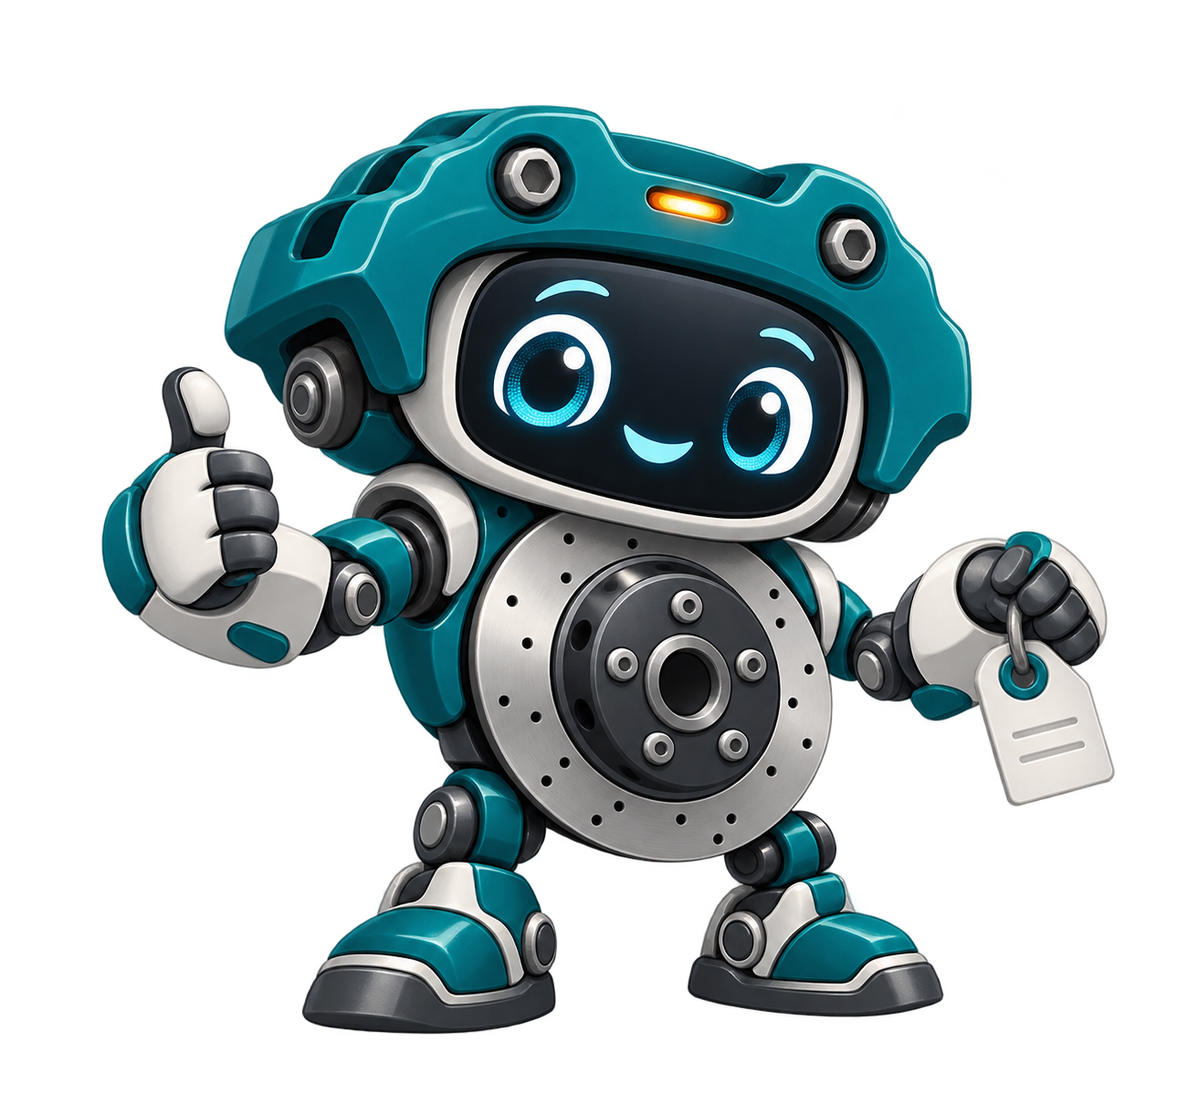
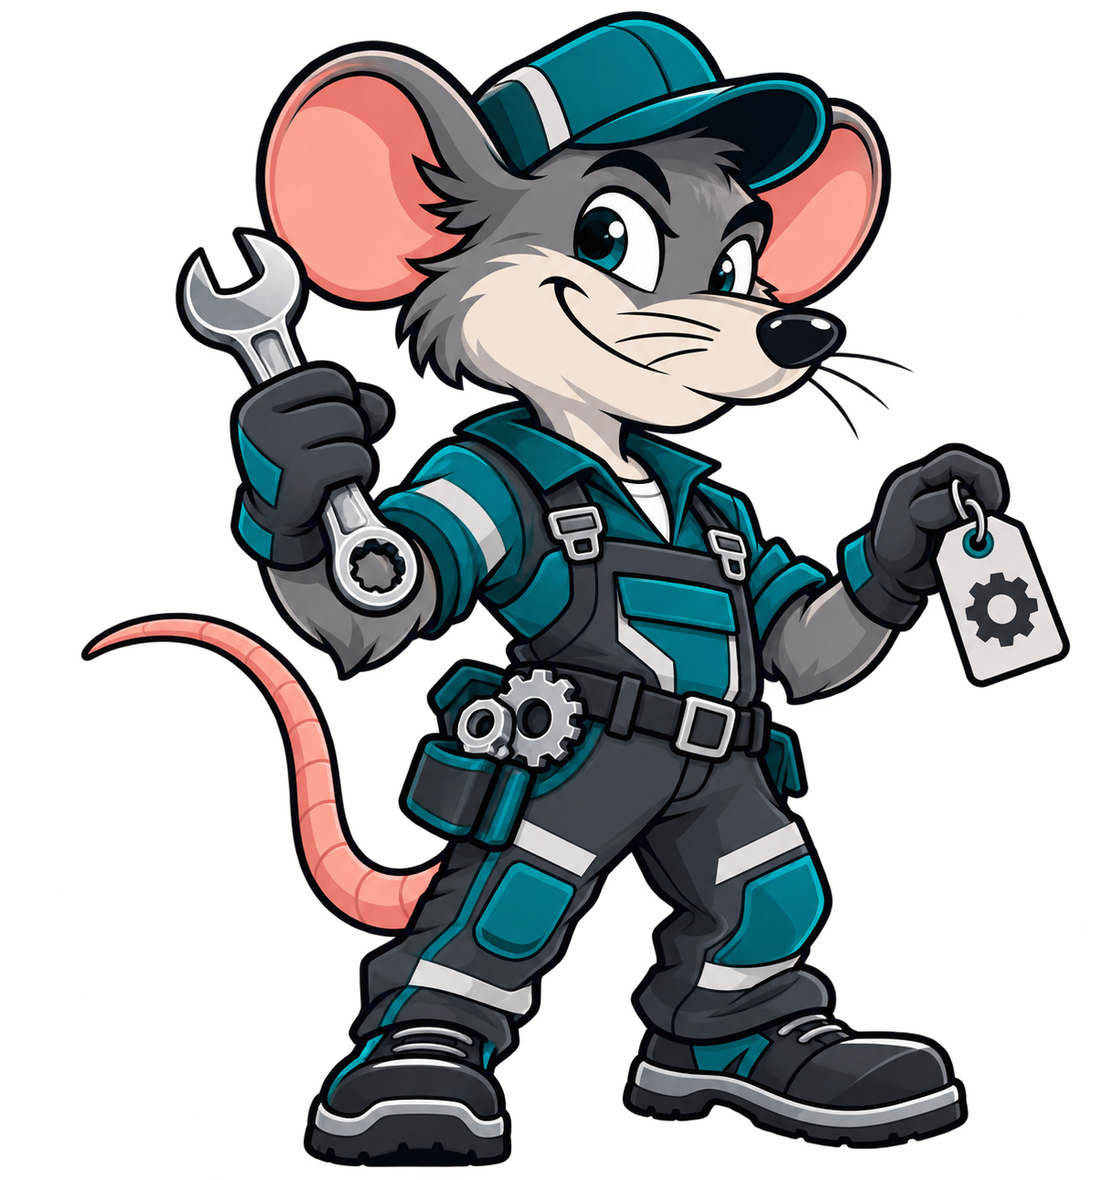
feat: replace Partiva visual identity

diff --git a/styles.css b/styles.css
@@ -5,4 +5,22 @@
 :root{--bg:#f3f6f6;--surface:#fff;--surface-alt:#eaf0f0;--ink:#172b32;--muted:#64777c;--muted-2:#8da0a4;--line:#dce7e7;--purple:#0f7079;--purple-dark:#0a5961;--purple-soft:#e5f2f2;--orange:#d89a4b;--green:#3b9a78;--yellow:#d8aa4d;--blue:#438f9b;--graphite:#172b32;--teal:#0f7079;--teal-dark:#0a5961;--teal-soft:#e5f2f2;--shadow:0 18px 45px rgba(24,57,63,.11);--radius:16px;--font:'DM Sans',sans-serif;--display:'Manrope',sans-serif}html{scroll-behavior:smooth}body{background:var(--bg);color:var(--ink);-webkit-font-smoothing:antialiased}button,a{cursor:pointer}button:focus-visible,a:focus-visible,input:focus-visible,select:focus-visible,textarea:focus-visible,summary:focus-visible{outline:3px solid rgba(15,112,121,.28);outline-offset:3px}.app-shell{display:none}.app-shell.is-visible{display:flex}.wordmark{font-family:'Caveat',cursive;font-size:31px;font-weight:700;line-height:.9;letter-spacing:.2px;color:var(--graphite);text-decoration:none}.landing-screen{display:none;min-height:100vh;background:#f4f7f7;color:var(--ink)}.landing-screen.active{display:block}.landing-nav{height:78px;max-width:1200px;margin:0 auto;padding:0 30px;display:flex;align-items:center;justify-content:space-between;gap:24px}.landing-nav .wordmark{color:var(--teal-dark);font-size:36px}.landing-links{display:flex;align-items:center;gap:28px;margin-left:auto}.landing-links a,.landing-login{color:#5a7175;font-size:12px;font-weight:700;text-decoration:none;transition:color .18s ease}.landing-links a:hover,.landing-login:hover{color:var(--teal)}.landing-login{min-height:42px;padding:0 18px;border:1px solid #cbdcdd;border-radius:10px;background:#fff}.landing-hero{max-width:1200px;margin:0 auto;padding:74px 30px 76px;display:grid;grid-template-columns:minmax(0,1fr) minmax(420px,.92fr);align-items:center;gap:68px}.landing-eyebrow{color:var(--teal);display:flex;align-items:center;gap:8px}.eyebrow-dot{width:7px;height:7px;border-radius:50%;background:var(--orange);box-shadow:0 0 0 5px rgba(216,154,75,.13)}.landing-hero h1{max-width:650px;font:800 clamp(44px,6vw,76px)/.98 var(--display);letter-spacing:-4px;margin:22px 0 23px;color:var(--graphite);text-wrap:balance}.landing-hero-copy>p{max-width:525px;color:#5e7378;font-size:17px;line-height:1.65;margin:0}.landing-actions{display:flex;align-items:center;gap:24px;margin-top:32px;flex-wrap:wrap}.landing-primary{min-height:50px;padding:0 19px;border-radius:11px;background:var(--teal);box-shadow:0 12px 24px rgba(15,112,121,.2)}.landing-primary:hover{background:var(--teal-dark);transform:translateY(-2px)}.text-link{color:var(--teal-dark);font-size:12px;font-weight:800;text-decoration:none}.text-link span{font-size:15px;margin-left:5px}.landing-proof{display:flex;align-items:center;gap:9px;color:#74888c;font-size:11px;margin-top:23px}.proof-check{display:grid;place-items:center;width:19px;height:19px;border-radius:50%;background:#dcefe9;color:#278366;font-weight:800}.landing-hero-visual{min-height:500px;position:relative;overflow:hidden;border-radius:28px;background:#0d626c;isolation:isolate;box-shadow:0 26px 55px rgba(15,91,98,.18)}.landing-hero-visual:before,.landing-hero-visual:after{content:"";position:absolute;border:1px solid rgba(255,255,255,.16);border-radius:50%;z-index:-1}.landing-hero-visual:before{width:570px;height:570px;right:-250px;top:-180px}.landing-hero-visual:after{width:380px;height:380px;left:-220px;bottom:-220px}.hero-grid-lines{position:absolute;inset:0;opacity:.25;background-image:linear-gradient(rgba(255,255,255,.08) 1px,transparent 1px),linear-gradient(90deg,rgba(255,255,255,.08) 1px,transparent 1px);background-size:42px 42px;mask-image:linear-gradient(135deg,transparent 0%,black 65%)}.hero-status-pill{position:absolute;left:28px;top:26px;color:rgba(255,255,255,.75);font-size:9px;letter-spacing:1.2px;font-weight:800;display:flex;align-items:center;gap:8px}.hero-status-pill span{width:7px;height:7px;border-radius:50%;background:#d6a04f;box-shadow:0 0 0 5px rgba(214,160,79,.16)}.mascot-stage{position:absolute;inset:70px 18px 0;display:grid;place-items:center}.mascot-stage:after{content:"";position:absolute;width:280px;height:40px;bottom:27px;border-radius:50%;background:rgba(0,25,31,.24);filter:blur(12px);z-index:-1}.mascot-stage img{width:min(94%,500px);height:auto;filter:drop-shadow(0 22px 16px rgba(0,30,36,.2))}.hero-floating-card{position:absolute;z-index:2;display:flex;align-items:center;gap:10px;padding:12px 14px;border:1px solid rgba(255,255,255,.6);border-radius:13px;background:rgba(255,255,255,.92);box-shadow:0 14px 30px rgba(4,43,49,.18);color:var(--graphite);min-width:190px}.hero-floating-card-top{right:24px;top:106px}.hero-floating-card-bottom{left:23px;bottom:28px}.floating-icon{display:grid;place-items:center;width:27px;height:27px;border-radius:9px;background:#f8e8d5;color:#aa6f24;font-size:15px;font-weight:800}.floating-icon.teal-icon{background:#dceeed;color:var(--teal)}.hero-floating-card strong,.hero-floating-card small{display:block}.hero-floating-card strong{font-size:11px}.hero-floating-card small{font-size:10px;color:#75878a;margin-top:2px}.landing-value-strip{max-width:1200px;margin:0 auto;padding:22px 30px 80px;display:grid;grid-template-columns:repeat(3,1fr);gap:1px}.landing-value-strip>div{padding:23px 28px;border-top:1px solid var(--line);background:#fff}.landing-value-strip>div:first-child{border-radius:14px 0 0 14px}.landing-value-strip>div:last-child{border-radius:0 14px 14px 0}.landing-value-strip strong,.landing-value-strip span,.landing-value-strip small{display:block}.landing-value-strip strong{color:var(--orange);font:700 11px 'DM Sans',sans-serif;letter-spacing:1px}.landing-value-strip span{font-size:14px;font-weight:800;margin:11px 0 5px}.landing-value-strip small{color:#718387;font-size:11px;line-height:1.45}.landing-section{max-width:1200px;margin:0 auto;padding:88px 30px}.landing-intro{display:grid;grid-template-columns:minmax(0,1fr) minmax(300px,.62fr);gap:90px;align-items:end;border-top:1px solid var(--line)}.section-heading h2{max-width:640px;font:800 clamp(30px,4vw,49px)/1.06 var(--display);letter-spacing:-2.3px;margin:15px 0 0;color:var(--graphite);text-wrap:balance}.section-heading .eyebrow{color:var(--teal)}.landing-intro>p{color:#65797d;line-height:1.7;font-size:15px;margin:0 0 4px}.landing-benefits{max-width:1200px;margin:0 auto;padding:0 30px 110px;display:grid;grid-template-columns:repeat(3,1fr);gap:14px}.benefit-card{position:relative;min-height:305px;padding:29px 27px 24px;background:#fff;border:1px solid var(--line);border-radius:18px;display:flex;flex-direction:column;transition:transform .2s ease,box-shadow .2s ease,border-color .2s ease}.benefit-card:hover{transform:translateY(-4px);border-color:#b8d6d7;box-shadow:var(--shadow)}.benefit-card-featured{background:var(--teal);border-color:var(--teal);color:#fff}.benefit-index{position:absolute;right:24px;top:25px;color:#a0b0b2;font-size:10px;font-weight:800}.benefit-card-featured .benefit-index{color:rgba(255,255,255,.46)}.benefit-icon{width:38px;height:38px;border-radius:11px;display:grid;place-items:center;background:#e9f3f3;color:var(--teal);font-size:21px;font-weight:700;margin-bottom:41px}.benefit-card-featured .benefit-icon{background:rgba(255,255,255,.15);color:#fff}.benefit-card h3{font:700 20px/1.15 var(--display);letter-spacing:-.5px;margin:0 30px 11px 0}.benefit-card p{color:#6c7e82;font-size:12px;line-height:1.6;margin:0}.benefit-card-featured p{color:rgba(255,255,255,.76)}.benefit-note{margin-top:auto;padding-top:24px;color:#93a2a5;font-size:10px;font-weight:700}.benefit-card-featured .benefit-note{color:rgba(255,255,255,.64)}.landing-steps{display:grid;grid-template-columns:minmax(0,.85fr) minmax(380px,1fr);gap:100px;border-top:1px solid var(--line)}.steps-list{border-top:1px solid var(--line)}.step-item{display:flex;gap:19px;padding:21px 0;border-bottom:1px solid var(--line)}.step-item>span{color:var(--orange);font-size:11px;font-weight:800;padding-top:3px}.step-item h3{font-size:15px;margin:0 0 5px}.step-item p{font-size:12px;color:#718387;margin:0;line-height:1.5}.landing-free-card{max-width:1140px;margin:0 auto 80px;padding:28px 36px;border-radius:18px;background:#e3eeee;display:flex;align-items:center;justify-content:space-between;gap:30px}.landing-free-card h2{font:800 30px var(--display);letter-spacing:-1.2px;margin:9px 0 5px}.landing-free-card p{color:#617477;margin:0;font-size:13px}.free-details{display:flex;align-items:center;gap:12px}.free-details strong{font:800 27px var(--display)}.free-details>span{color:#6b7f82;font-size:11px;margin-right:16px}.free-details .primary-button{min-height:45px}.landing-faq{display:grid;grid-template-columns:minmax(0,.75fr) minmax(420px,1fr);gap:100px;border-top:1px solid var(--line)}.faq-list{border-top:1px solid var(--line)}.faq-list details{border-bottom:1px solid var(--line);padding:20px 0}.faq-list summary{list-style:none;cursor:pointer;padding-right:26px;position:relative;font-size:14px;font-weight:800}.faq-list summary::-webkit-details-marker{display:none}.faq-list summary:after{content:"+";position:absolute;right:0;top:-2px;color:var(--teal);font-size:21px;font-weight:400}.faq-list details[open] summary:after{content:"−"}.faq-list p{color:#6c7e82;font-size:12px;line-height:1.6;margin:12px 0 0;max-width:520px}.landing-final-cta{max-width:1200px;margin:0 auto;padding:58px 30px 78px;display:flex;align-items:center;gap:25px;border-top:1px solid var(--line)}.landing-final-cta img{width:110px;height:110px;object-fit:contain;object-position:center bottom}.landing-final-cta h2{font:800 31px var(--display);letter-spacing:-1.3px;margin:9px 0 5px}.landing-final-cta p{color:#6b7f82;font-size:13px;margin:0}.landing-final-cta .primary-button{margin-left:auto;white-space:nowrap;min-height:47px}.landing-footer{max-width:1200px;margin:0 auto;padding:25px 30px 34px;border-top:1px solid var(--line);display:flex;align-items:center;gap:22px;color:#8b9a9d;font-size:10px}.landing-footer .wordmark{font-size:27px;color:var(--teal-dark)}.landing-footer span:last-child{margin-left:auto;color:var(--teal);font-weight:800}.auth-screen{background:#f4f7f7}.auth-panel{background:#fff}.auth-brand{display:flex;flex-direction:column;align-items:flex-start;gap:7px}.auth-brand .wordmark{font-size:40px;color:var(--teal-dark)}.auth-panel h1{color:var(--graphite)}.auth-submit{min-height:47px;background:var(--teal)}.auth-submit:hover{background:var(--teal-dark)}.auth-switch span{color:var(--teal)}.auth-aside{background:#0d626c}.auth-aside:after{background:radial-gradient(circle at 78% 15%,rgba(255,255,255,.19),transparent 33%),radial-gradient(circle at 14% 92%,rgba(0,30,35,.25),transparent 34%)}.auth-aside-copy{max-width:430px}.auth-aside h2{font-family:var(--display)}.auth-mascot{position:absolute;right:4%;bottom:-12px;width:min(44vw,450px);z-index:1;opacity:.98;filter:drop-shadow(0 22px 16px rgba(0,30,36,.2))}.auth-aside-copy{z-index:2}.auth-metric strong{font-family:'Caveat',cursive;font-size:50px}.auth-demo-note{color:#86989a}.field input:focus,.field select:focus,.field textarea:focus{border-color:#75b7bb;box-shadow:0 0 0 3px #e1f2f2}.nav-item:hover,.nav-item.active{background:var(--teal-soft);color:var(--teal)}.nav-badge{background:#e2eff0;color:var(--teal)}.board-link.selected{background:#edf5f5}.board-dot.purple{background:var(--teal)}.filter-chip{background:var(--teal-soft);color:var(--teal)}.view-button.active{background:var(--teal-soft);color:var(--teal)}.add-card-button:hover{color:var(--teal)}.add-column-button:hover{color:var(--teal);border-color:#8cc6c8;background:#edf7f7}.tag-purple{color:var(--teal);background:var(--teal-soft)}.tag-blue{color:#377782;background:#e5f2f3}.tag-orange{color:#a86a24;background:#fcefdc}.detail-status{color:var(--teal);background:var(--teal-soft)}.detail-tab.active{color:var(--teal)}.detail-tab.active:after{background:var(--teal)}.text-button{color:var(--teal)}.smart-intro{background:var(--teal-soft);color:var(--teal)}.smart-intro span{color:#5f969b}.progress-step.active{color:var(--teal)}.progress-step.active span{background:var(--teal);border-color:var(--teal)}.status-dot{background:var(--green)}.visual-purple{background:linear-gradient(135deg,#0f7079,#67afb3)}.visual-blue{background:linear-gradient(135deg,#438f9b,#a3d1d2)}.visual-orange{background:linear-gradient(135deg,#c6843b,#ecc48c)}.visual-green{background:linear-gradient(135deg,#3b9a78,#99d0ba)}.visual-dark{background:linear-gradient(135deg,#263c43,#778b8f)}.primary-button{background:var(--teal);box-shadow:0 5px 12px rgba(15,112,121,.19)}.primary-button:hover{background:var(--teal-dark)}
 @media(max-width:900px){.landing-hero{grid-template-columns:1fr;gap:42px;padding-top:45px}.landing-hero-visual{min-height:450px}.landing-intro,.landing-steps,.landing-faq{grid-template-columns:1fr;gap:40px}.landing-benefits{grid-template-columns:1fr}.benefit-card{min-height:250px}.landing-free-card{margin-left:30px;margin-right:30px}.landing-links{gap:16px}.landing-links a:nth-child(3){display:none}}
 @media(max-width:650px){.landing-nav{height:68px;padding:0 20px}.landing-links{display:none}.landing-nav .wordmark{font-size:34px}.landing-hero{padding:45px 20px 55px}.landing-hero h1{font-size:48px;letter-spacing:-2.6px}.landing-hero-copy>p{font-size:15px}.landing-hero-visual{min-height:390px;border-radius:21px}.mascot-stage{inset:70px 4px 0}.hero-floating-card{transform:scale(.86);transform-origin:center}.hero-floating-card-top{right:0;top:95px}.hero-floating-card-bottom{left:-4px;bottom:18px}.landing-value-strip{padding:0 20px 55px;grid-template-columns:1fr;gap:0}.landing-value-strip>div,.landing-value-strip>div:first-child,.landing-value-strip>div:last-child{border-radius:0;border-bottom:1px solid var(--line)}.landing-section{padding:64px 20px}.landing-benefits{padding:0 20px 70px}.landing-free-card{margin:0 20px 62px;padding:26px;display:block}.free-details{margin-top:23px;flex-wrap:wrap}.free-details>span{margin-right:auto}.free-details .primary-button{width:100%}.landing-faq{display:block}.landing-final-cta{padding:48px 20px 62px;display:grid;grid-template-columns:80px 1fr;gap:16px}.landing-final-cta img{width:80px;height:80px}.landing-final-cta .primary-button{grid-column:1/-1;width:100%;margin:8px 0 0}.landing-footer{padding:22px 20px;flex-wrap:wrap}.landing-footer span:last-child{margin-left:0}.auth-mascot{display:none}}
+
+/* Partiva identity refresh: original P negative-space symbol + mechanical mouse mascot */
+.brand-mark{width:auto;height:auto;min-height:44px;display:inline-flex;align-items:center;gap:9px;border-radius:0;background:transparent;box-shadow:none;color:inherit;text-decoration:none;font-family:inherit;font-size:inherit;font-weight:inherit}
+.brand-symbol{display:block;width:30px;height:30px;flex:0 0 auto;object-fit:contain}
+.landing-nav .brand-mark{color:var(--teal-dark)}
+.landing-nav .brand-symbol{width:32px;height:32px}
+.landing-footer .brand-mark{color:var(--teal-dark)}
+.landing-footer .brand-symbol{width:25px;height:25px}
+.auth-brand .brand-mark{color:var(--teal-dark)}
+.auth-brand .brand-symbol{width:36px;height:36px}
+.auth-brand .wordmark{font-size:40px}
+.sidebar .brand-mark{color:var(--teal-dark)}
+.sidebar .brand-symbol{width:28px;height:28px}
+.sidebar .wordmark{font-size:31px}
+.mascot-stage img,.auth-mascot,.landing-final-cta img{object-fit:contain}
+.mascot-stage img{max-height:440px}
+.auth-mascot{max-height:520px;object-fit:contain;object-position:center bottom}
+@media(max-width:650px){.landing-nav .brand-symbol{width:30px;height:30px}.landing-nav .wordmark{font-size:34px}.auth-brand .brand-symbol{width:32px;height:32px}.auth-brand .wordmark{font-size:36px}}
 @media(prefers-reduced-motion:reduce){html{scroll-behavior:auto}.benefit-card,.primary-button{transition:none}.benefit-card:hover,.primary-button:hover{transform:none}}

diff --git a/index.html b/index.html
@@ -13,7 +13,7 @@
   <body>
     <section class="landing-screen active" id="landing-screen" aria-labelledby="landing-title">
       <header class="landing-nav">
-        <a class="wordmark" href="#top" aria-label="Partiva início">partiva</a>
+        <a class="brand-mark" href="#top" aria-label="Partiva início"><img class="brand-symbol" src="assets/partiva-symbol.svg" alt="" aria-hidden="true" /><span class="wordmark">partiva</span></a>
         <nav class="landing-links" aria-label="Navegação institucional">
           <a href="#como-funciona">Como funciona</a>
           <a href="#beneficios">Benefícios</a>
@@ -37,7 +37,7 @@
           <div class="landing-hero-visual" aria-label="Mascote do Partiva acompanhando uma peça automotiva">
             <div class="hero-grid-lines"></div>
             <div class="hero-status-pill"><span></span> FLUXO EM MOVIMENTO</div>
-            <div class="mascot-stage"><img src="assets/partiva-mascot.png" alt="Mascote do Partiva, um robô inspirado em uma peça automotiva" /></div>
+            <div class="mascot-stage"><img src="assets/partiva-mascot.png" alt="Rato mecânico do Partiva, mascote da operação automotiva" /></div>
             <div class="hero-floating-card hero-floating-card-top"><span class="floating-icon">↗</span><div><strong>PTV-1042</strong><small>Entrada registrada</small></div></div>
             <div class="hero-floating-card hero-floating-card-bottom"><span class="floating-icon teal-icon">✓</span><div><strong>Fluxo claro</strong><small>Do cadastro à próxima etapa</small></div></div>
           </div>
@@ -75,14 +75,14 @@
           <div class="faq-list"><details open><summary>O que é o Partiva?</summary><p>É uma plataforma visual para organizar o cadastro e o fluxo operacional de peças automotivas em um único workspace.</p></details><details><summary>O que está disponível no plano Free?</summary><p>O plano atual inclui o acesso ao workspace, cadastro de peças, quadros, colunas personalizáveis, busca, filtros e ficha detalhada.</p></details><details><summary>Preciso mudar o jeito que minha equipe trabalha?</summary><p>Não. As colunas podem ser adaptadas ao processo que sua operação já usa, com uma visão mais simples de acompanhar.</p></details><details><summary>O Partiva já publica anúncios e controla vendas?</summary><p>Essas frentes fazem parte da evolução do produto. Nesta versão, o foco está no cadastro e no acompanhamento operacional das peças.</p></details></div>
         </section>
 
-        <section class="landing-final-cta"><img src="assets/partiva-mascot.png" alt="Mascote do Partiva" /><div><span class="eyebrow">PRONTO PARA ORGANIZAR?</span><h2>Comece pelo próximo cadastro.</h2><p>O primeiro passo para uma operação mais clara cabe em uma peça.</p></div><button class="primary-button" id="landing-final-btn" type="button">Criar conta grátis <span>→</span></button></section>
+        <section class="landing-final-cta"><img src="assets/partiva-mascot.png" alt="Rato mecânico do Partiva" /><div><span class="eyebrow">PRONTO PARA ORGANIZAR?</span><h2>Comece pelo próximo cadastro.</h2><p>O primeiro passo para uma operação mais clara cabe em uma peça.</p></div><button class="primary-button" id="landing-final-btn" type="button">Criar conta grátis <span>→</span></button></section>
       </main>
-      <footer class="landing-footer"><a class="wordmark" href="#top">partiva</a><span>Gestão visual para operações de peças automotivas.</span><span>Plano Free</span></footer>
+      <footer class="landing-footer"><a class="brand-mark" href="#top" aria-label="Partiva início"><img class="brand-symbol" src="assets/partiva-symbol.svg" alt="" aria-hidden="true" /><span class="wordmark">partiva</span></a><span>Gestão visual para operações de peças automotivas.</span><span>Plano Free</span></footer>
     </section>
 
     <section class="auth-screen" id="auth-screen" aria-labelledby="auth-title">
       <div class="auth-panel">
-        <div class="brand-lockup auth-brand"><a class="wordmark" href="#top" id="auth-home-link">partiva</a><div class="brand-subtitle">operação inteligente</div></div>
+        <div class="brand-lockup auth-brand"><a class="brand-mark" href="#top" id="auth-home-link" aria-label="Partiva início"><img class="brand-symbol" src="assets/partiva-symbol.svg" alt="" aria-hidden="true" /><span class="wordmark">partiva</span></a><div class="brand-subtitle">operação inteligente</div></div>
         <div class="auth-kicker" id="auth-kicker">ACESSO AO WORKSPACE</div>
         <h1 id="auth-title">Bem-vindo de volta</h1>
         <p id="auth-description">Entre para acompanhar o fluxo de peças da sua operação.</p>
@@ -95,13 +95,13 @@
         <button class="auth-switch" type="button" id="auth-switch">Ainda não tenho uma conta <span>Criar usuário</span></button>
         <div class="auth-demo-note">Acesso gratuito nesta primeira versão.</div>
       </div>
-      <div class="auth-aside"><div class="auth-orbit orbit-one"></div><div class="auth-orbit orbit-two"></div><img class="auth-mascot" src="assets/partiva-mascot.png" alt="Mascote do Partiva" /><div class="auth-aside-copy"><span class="eyebrow">OPERAÇÃO EM MOVIMENTO</span><h2>Do pátio à próxima etapa, tudo fica visível.</h2><p>Organize peças, encontre informações e avance o trabalho da equipe com clareza.</p><div class="auth-metric"><strong>Free</strong><span>para começar<br>com tranquilidade</span></div></div></div>
+      <div class="auth-aside"><div class="auth-orbit orbit-one"></div><div class="auth-orbit orbit-two"></div><img class="auth-mascot" src="assets/partiva-mascot.png" alt="Rato mecânico do Partiva" /><div class="auth-aside-copy"><span class="eyebrow">OPERAÇÃO EM MOVIMENTO</span><h2>Do pátio à próxima etapa, tudo fica visível.</h2><p>Organize peças, encontre informações e avance o trabalho da equipe com clareza.</p><div class="auth-metric"><strong>Free</strong><span>para começar<br>com tranquilidade</span></div></div></div>
     </section>
     <div class="app-shell">
       <aside class="sidebar">
           <div class="brand-lockup">
           <div>
-            <div class="wordmark">partiva</div>
+            <div class="brand-mark"><img class="brand-symbol" src="assets/partiva-symbol.svg" alt="" aria-hidden="true" /><span class="wordmark">partiva</span></div>
             <div class="brand-subtitle">operação inteligente</div>
           </div>
         </div>

diff --git a/.interface-design/system.md b/.interface-design/system.md
@@ -5,7 +5,7 @@
 - Personality: precise, human, practical and trustworthy.
 - Product world: automotive parts, workshop flow, inventory labels, graphite metal and petroleum-blue enamel.
 - Density: dense enough for daily operations, with generous breathing room on public pages.
-- Signature: the Partiva wordmark is text-only in a lightly handwritten Caveat style; the separate mascot is a friendly teal brake-caliper navigator holding an inventory tag.
+- Signature: a geometric petroleum-blue P symbol uses a negative-space mechanical profile beside the lightly handwritten Caveat wordmark; the separate mascot is a confident teal-and-graphite mechanical mouse mechanic.
 
 ## Palette
 
@@ -22,7 +22,7 @@ Use color to communicate state or action. Keep the page mostly neutral and reser
 
 ## Typography
 
-- Wordmark: Caveat 700, lowercase partiva, text-only.
+- Wordmark: Caveat 700, lowercase partiva, paired with the standalone `assets/partiva-symbol.svg` mark.
 - Product headings: Manrope 700–800, tight tracking.
 - Body and interface labels: DM Sans 400–700.
 - Type hierarchy: 11px metadata, 12–14px interface copy, 17px supporting copy, 30–50px section headings, 44px+ public hero.
@@ -46,7 +46,7 @@ Use color to communicate state or action. Keep the page mostly neutral and reser
 - Primary button: petroleum teal, 44–50px high, 10–11px radius, clear verb.
 - Secondary button: white surface, quiet border, graphite text.
 - Operational card: white surface, 1px border, 9–18px radius depending on context.
-- Mascot: use only as a supporting guide or welcome element; never merge it with the wordmark.
+- Mascot: use only as a supporting guide or welcome element; never merge it with the wordmark or symbol. The source asset is `assets/partiva-mascot.png`.
 - Interactive states: default, hover, active, focus, disabled, loading, empty and error must remain visible and understandable.
 
 ## Content rules

diff --git a/design-system/partiva/MASTER.md b/design-system/partiva/MASTER.md
@@ -42,9 +42,14 @@
 
 - **Heading Font:** Manrope
 - **Body Font:** DM Sans
-- **Wordmark:** Caveat, lowercase, text-only
+- **Wordmark:** Caveat, lowercase, paired with an independent negative-space P symbol
 - **Mood:** precise, human, practical, trustworthy
 - **Google Fonts:** [Caveat + DM Sans + Manrope](https://fonts.googleapis.com/css2?family=Caveat:wght@500;600;700&family=DM+Sans:wght@400;500;600;700&family=Manrope:wght@600;700;800&display=swap)
+
+### Brand Assets
+
+- **Symbol:** `assets/partiva-symbol.svg` — original geometric P with a transparent negative-space mechanical profile.
+- **Mascot:** `assets/partiva-mascot.png` — original teal-and-graphite mechanical mouse mechanic, used as a supporting visual in the institutional and authentication surfaces.
 
 **CSS Import:**
 ```css

diff --git a/README.md b/README.md
@@ -39,7 +39,7 @@ O projeto está estruturado como site estático para Cloudflare Pages e inclui `
 
 ## Identidade visual
 
-- Wordmark textual em Caveat, sem símbolo acoplado ao logotipo.
+- Wordmark textual em Caveat, acompanhado por um símbolo P vetorial independente (`assets/partiva-symbol.svg`) com recorte negativo inspirado no perfil mecânico.
 - Paleta baseada em azul-petróleo, branco, cinza-claro, grafite e âmbar operacional.
-- Mascote separado em `assets/partiva-mascot.png`.
+- Mascote substituído por um rato mecânico original, separado em `assets/partiva-mascot.png`.
 - Diretrizes persistidas em `.interface-design/system.md` e `design-system/partiva/MASTER.md`.
